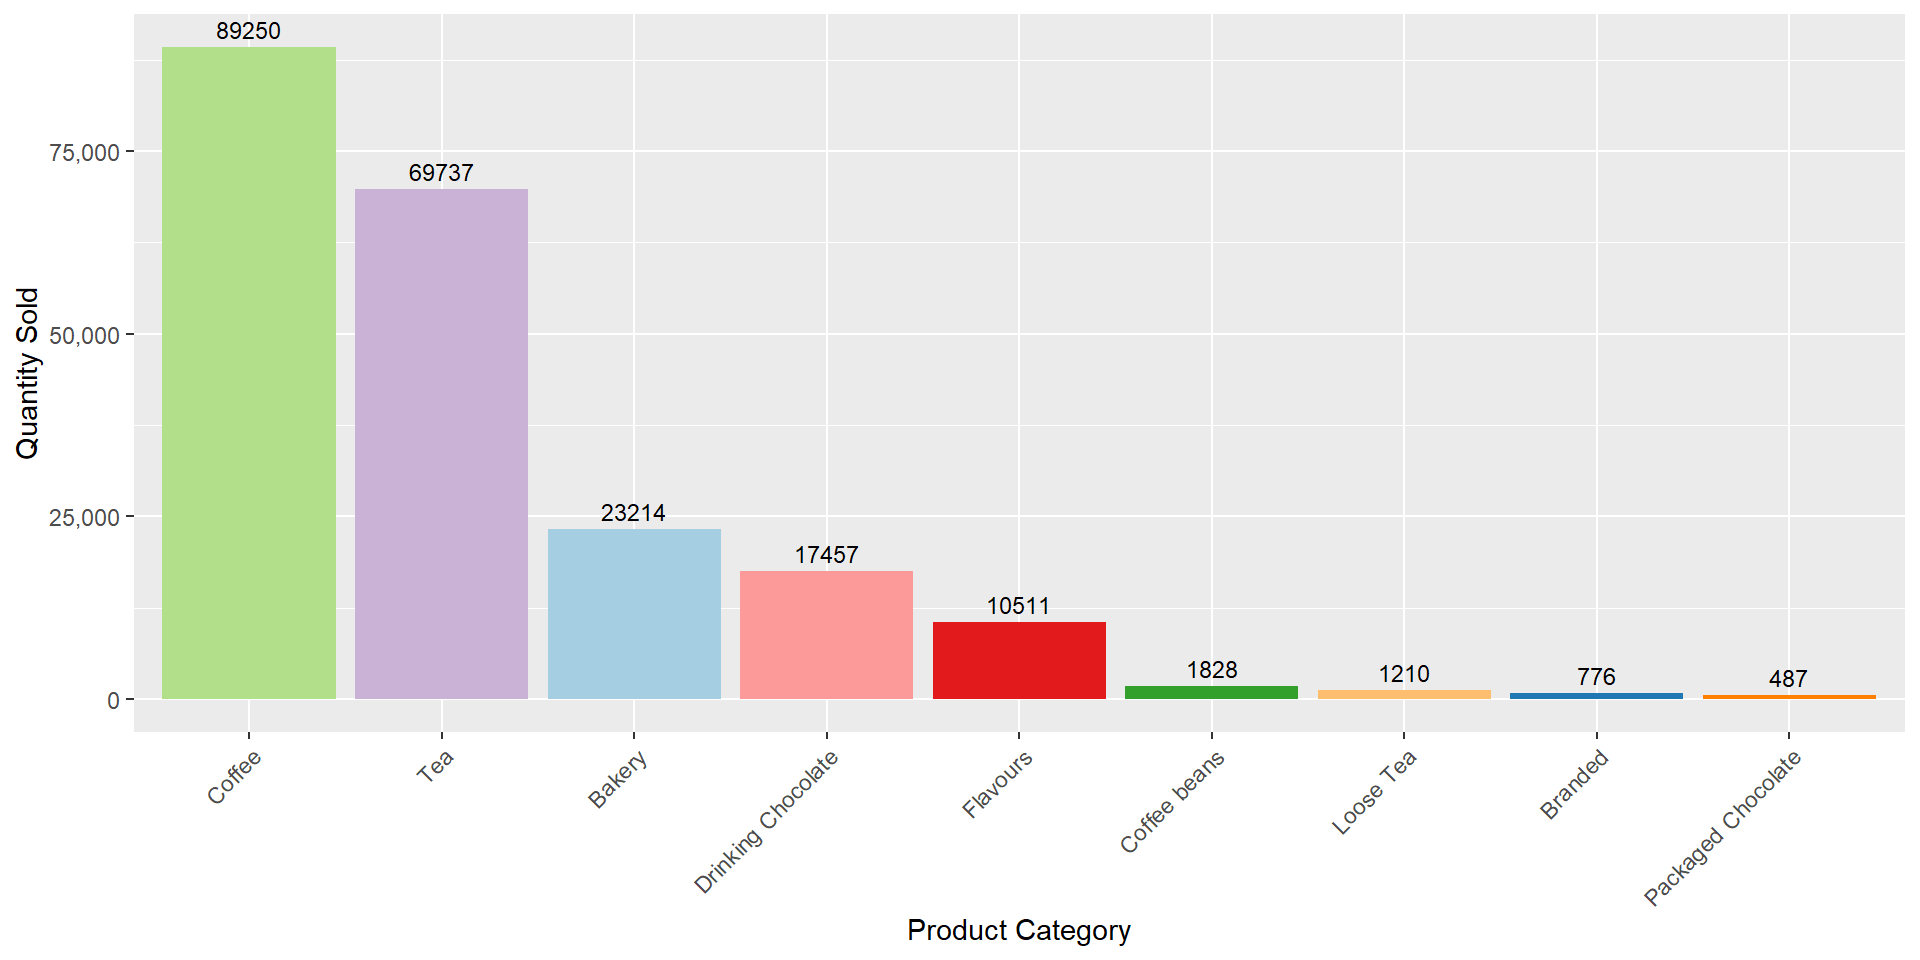
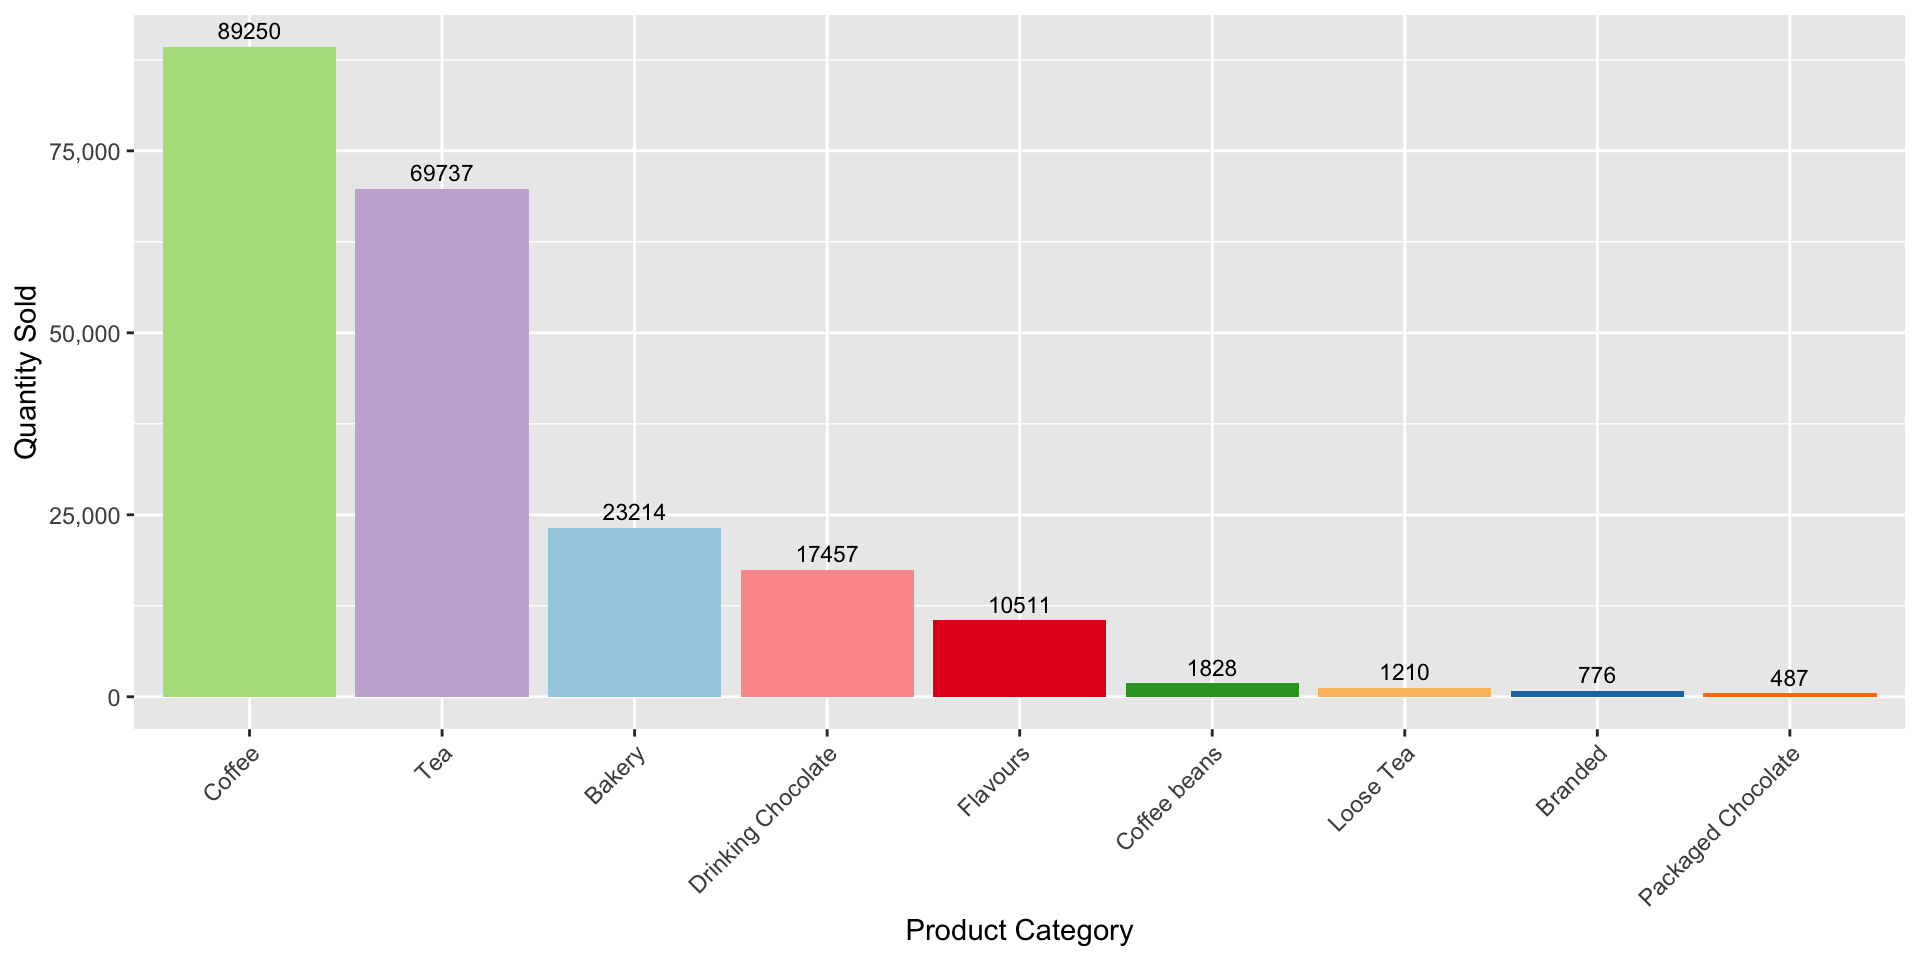
Cutting down slides and reformatting

diff --git a/Slides.html b/Slides.html
@@ -6,8 +6,8 @@
 <script src="Slides_files/libs/quarto-html/tippy.umd.min.js"></script>
 <link href="Slides_files/libs/quarto-html/tippy.css" rel="stylesheet">
 <link href="Slides_files/libs/quarto-html/light-border.css" rel="stylesheet">
-<link href="Slides_files/libs/quarto-html/quarto-syntax-highlighting-b6a8276bf55561bdbc268162d41bd1f7.css" rel="stylesheet" id="quarto-text-highlighting-styles"><meta charset="utf-8">
-  <meta name="generator" content="quarto-1.9.30">
+<link href="Slides_files/libs/quarto-html/quarto-syntax-highlighting-7f8f88aac4f3542376d5c11b86a4c14d.css" rel="stylesheet" id="quarto-text-highlighting-styles"><meta charset="utf-8">
+  <meta name="generator" content="quarto-1.9.37">
 
   <meta name="author" content="Caryn Kesuma">
   <meta name="author" content="Shruti Pillai">
@@ -128,13 +128,7 @@
     }
   </style>
   <script src="Slides_files/libs/kePrint-0.0.1/kePrint.js"></script>
-<<<<<<< HEAD
-
   <link href="Slides_files/libs/lightable-0.0.1/lightable.css" rel="stylesheet">
-
-=======
-  <link href="Slides_files/libs/lightable-0.0.1/lightable.css" rel="stylesheet">
->>>>>>> shruti_analysis
 </head>
 <body class="quarto-light">
   <div class="reveal">
@@ -168,7 +162,6 @@ Thunchanok Udomittipong
 </div>
 
 </section>
-<<<<<<< HEAD
 <section id="introduction" class="slide level2">
 <h2>Introduction</h2>
 <p>How can a new café choose a location and initial product offering that maximises early sales and customer engagement?</p>
@@ -180,7 +173,7 @@ Thunchanok Udomittipong
 <section id="dataset-introduction" class="slide level2 small-slide">
 <h2>Dataset Introduction</h2>
 
-<img data-src="Slides_files/figure-revealjs/data-dict.png" width="615" class="r-stretch"></section>
+<img data-src="Slides_files/figure-revealjs/data-dict.png" class="r-stretch"></section>
 <section id="store-location-analysis" class="slide level2">
 <h2>Store Location Analysis</h2>
 <div style="font-size: 0.7em">
@@ -253,32 +246,18 @@ Figure&nbsp;2
 <p>This analysis examined the sales performance of Hell’s Kitchen, Astoria, and Lower Manhattan, across total sales, transaction behaviour, monthly trends, and hourly patterns.</p>
 <p>Taking all findings together, <strong>Hell’s Kitchen is recommended as the strongest candidate for a new café</strong>. Its more evenly distributed demand and competitive overall sales provide a more stable and sustainable commercial foundation, which are vital for a new café seeking to establish a consistent customer base from the start.</p>
 </section>
-=======
->>>>>>> shruti_analysis
-<section id="top-drinks-by-revenue" class="slide level2">
-<h2>Top drinks by revenue</h2>
-<ul>
-<li>The revenue in Hell’s Kitchen is concentrated in a small set of drinks.</li>
-<li>The highest earners include premium coffees and larger sizes. These are the strongest candidates to feature prominently on the menu.</li>
-</ul>
-</section>
 <section class="slide level2">
 
 
 <img data-src="outputs/hells_kitchen_top10_revenue_bar.png" style="width:100.0%" class="r-stretch"></section>
-<section id="revenue-vs-popularity" class="slide level2">
-<h2>Revenue vs Popularity</h2>
-<ul>
-<li>Drinks that rank highly in both tables are the best “core menu” items.</li>
-<li>High-revenue but lower-quantity drinks are good “premium/upsell” options.</li>
-</ul>
-</section>
-<section class="slide level2">
-
+<section id="top-10-drinks" class="slide level2">
+<h2>Top 10 Drinks</h2>
+<div class="columns">
+<div class="column" style="width:50%;">
 <div class="cell">
 <div class="cell-output-display">
-<table class="table caption-top" style="font-size: 30px; margin-left: auto; margin-right: auto;">
-<caption>Top 10 drinks by total revenue (Hell’s Kitchen)</caption>
+<table class="table caption-top" style="font-size: 18px; margin-left: auto; margin-right: auto;">
+<caption>By Total Revenue</caption>
 <thead>
 <tr class="header">
 <th style="text-align: left;" data-quarto-table-cell-role="th">drink</th>
@@ -341,13 +320,11 @@ Figure&nbsp;2
 </table>
 </div>
 </div>
-</section>
-<section class="slide level2">
-
+</div><div class="column" style="width:50%;">
 <div class="cell">
 <div class="cell-output-display">
-<table class="table caption-top" style="font-size: 30px; margin-left: auto; margin-right: auto;">
-<caption>Top 10 drinks by total quantity sold (Hell’s Kitchen)</caption>
+<table class="table caption-top" style="font-size: 18px; margin-left: auto; margin-right: auto;">
+<caption>By Popularity</caption>
 <thead>
 <tr class="header">
 <th style="text-align: left;" data-quarto-table-cell-role="th">drink</th>
@@ -410,6 +387,7 @@ Figure&nbsp;2
 </table>
 </div>
 </div>
+</div></div>
 </section>
 <section id="results" class="slide level2">
 <h2>Results</h2>
@@ -638,80 +616,42 @@ Figure&nbsp;2
       });
     </script>
     
-
     <script>
-
       // htmlwidgets need to know to resize themselves when slides are shown/hidden.
-
       // Fire the "slideenter" event (handled by htmlwidgets.js) when the current
-
       // slide changes (different for each slide format).
-
       (function () {
-
         // dispatch for htmlwidgets
-
         function fireSlideEnter() {
-
           const event = window.document.createEvent("Event");
-
           event.initEvent("slideenter", true, true);
-
           window.document.dispatchEvent(event);
-
         }
-
-    
 
         function fireSlideChanged(previousSlide, currentSlide) {
-
           fireSlideEnter();
 
-    
-
           // dispatch for shiny
-
           if (window.jQuery) {
-
             if (previousSlide) {
-
               window.jQuery(previousSlide).trigger("hidden");
-
             }
-
             if (currentSlide) {
-
               window.jQuery(currentSlide).trigger("shown");
-
             }
-
           }
-
         }
-
-    
 
         // hookup for slidy
-
         if (window.w3c_slidy) {
-
           window.w3c_slidy.add_observer(function (slide_num) {
-
             // slide_num starts at position 1
-
             fireSlideChanged(null, w3c_slidy.slides[slide_num - 1]);
-
           });
-
         }
 
-    
-
       })();
-
     </script>
-
-    
 
     <script id="quarto-html-after-body" type="application/javascript">
       window.document.addEventListener("DOMContentLoaded", function (event) {